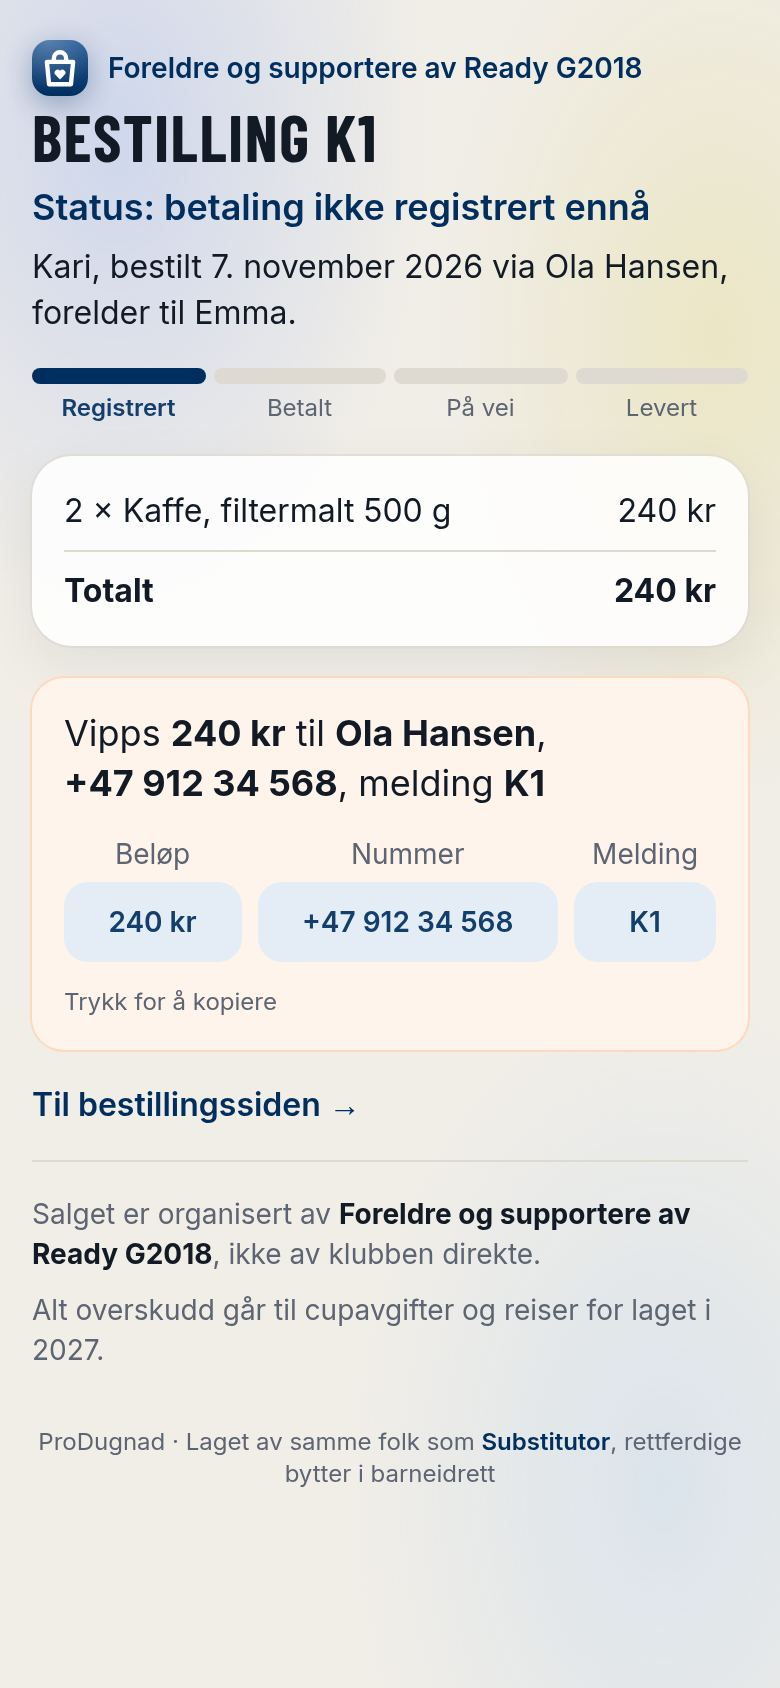
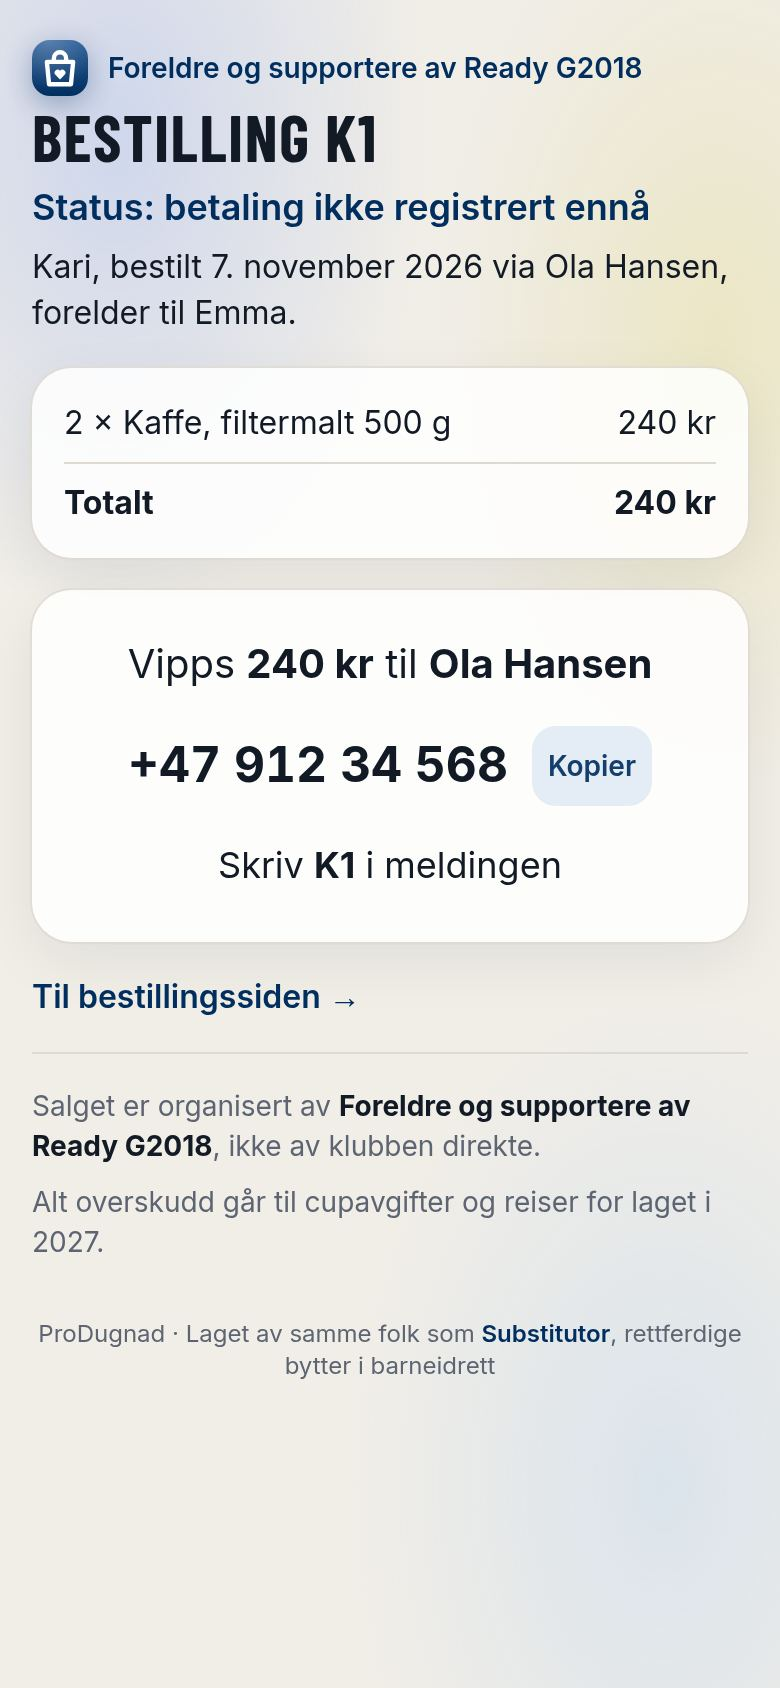
Status page: just the current status, and the same simple Vipps block as after ordering

diff --git a/src/pages/OrderStatusPage.tsx b/src/pages/OrderStatusPage.tsx
@@ -3,18 +3,10 @@ import { Link, useParams } from 'react-router'
 import { ProgressBar } from '../components/ProgressBar'
 import { ClosingMessage, Transparency } from '../components/Transparency'
 import { Card, ErrorBox, Loading, Logo, Page } from '../components/ui'
-import { VippsBox } from '../components/VippsBox'
+import { VippsSimple } from '../components/VippsSimple'
 import { kr, longDate } from '../lib/format'
 import { supabase } from '../lib/supabase'
-import { STATUS_LABEL, type FriendStatus, type StatusPage } from '../lib/types'
-
-const STEPS: FriendStatus[] = ['registrert', 'betalt', 'på vei', 'levert']
-const STEP_LABEL: Record<string, string> = {
-  registrert: 'Registrert',
-  betalt: 'Betalt',
-  'på vei': 'På vei',
-  levert: 'Levert',
-}
+import { STATUS_LABEL, type StatusPage } from '../lib/types'
 
 export default function OrderStatusPage() {
   const { token = '' } = useParams()
@@ -37,7 +29,6 @@ export default function OrderStatusPage() {
     )
 
   const { campaign, parent } = order
-  const stepIndex = STEPS.indexOf(order.status)
 
   return (
     <Page>
@@ -56,17 +47,6 @@ export default function OrderStatusPage() {
 
       <ClosingMessage campaign={campaign} />
 
-      {order.status !== 'avbestilt' && (
-        <ol className="grid grid-cols-4 gap-1 text-center text-xs">
-          {STEPS.map((s, i) => (
-            <li key={s} className="space-y-1">
-              <div className={`h-2 rounded-full ${i <= stepIndex ? 'bg-brand' : 'bg-line'}`} />
-              <span className={i <= stepIndex ? 'font-semibold text-brand-dark' : 'text-muted'}>{STEP_LABEL[s]}</span>
-            </li>
-          ))}
-        </ol>
-      )}
-
       <Card className="space-y-2">
         {order.lines.map((l) => (
           <p key={l.name} className="flex justify-between">
@@ -83,7 +63,9 @@ export default function OrderStatusPage() {
       </Card>
 
       {order.status === 'registrert' && (
-        <VippsBox amount={order.amount} name={parent.name} phoneNumber={parent.phone} code={order.code} />
+        <Card className="py-6">
+          <VippsSimple amount={order.amount} name={parent.name} phoneNumber={parent.phone} code={order.code} />
+        </Card>
       )}
 
       {campaign.raised !== null && <ProgressBar raised={campaign.raised} target={campaign.target_amount ?? 0} />}

diff --git a/src/pages/FriendOrderPage.tsx b/src/pages/FriendOrderPage.tsx
@@ -1,12 +1,12 @@
 import { useEffect, useMemo, useState } from 'react'
 import { Link, useParams } from 'react-router'
-import { CopyButton } from '../components/CopyButton'
+import { VippsSimple } from '../components/VippsSimple'
 import { ProgressBar } from '../components/ProgressBar'
 import { ProductPicker, quantitiesToLines, quantitiesTotal, type Quantities } from '../components/ProductPicker'
 import { ClosingMessage, Transparency } from '../components/Transparency'
 import { Button, Card, ErrorBox, Field, Input, Loading, Logo, Notice, Page, Title } from '../components/ui'
 import { errorText } from '../lib/errors'
-import { kr, longDate, phone, phoneDigits } from '../lib/format'
+import { kr, longDate } from '../lib/format'
 import { newId } from '../lib/id'
 import { ordersForLink, rememberOrder, type LocalOrder } from '../lib/localOrders'
 import { supabase } from '../lib/supabase'
@@ -119,16 +119,7 @@ export default function FriendOrderPage() {
       {placed ? (
         <Card className="space-y-5 py-6 text-center">
           <h2 className="font-display text-[34px] leading-none uppercase tracking-wide">Takk for støtten, {firstName.trim()}!</h2>
-          <p className="text-xl leading-snug">
-            Vipps <strong>{kr(placed.amount)}</strong> til <strong>{placed.parent.name}</strong>
-          </p>
-          <div className="flex items-center justify-center gap-3">
-            <span className="text-2xl font-bold whitespace-nowrap tabular-nums">{phone(placed.parent.phone)}</span>
-            <CopyButton value={phoneDigits(placed.parent.phone)} label="Kopier" />
-          </div>
-          <p className="text-lg">
-            Skriv <strong>{placed.code}</strong> i meldingen
-          </p>
+          <VippsSimple amount={placed.amount} name={placed.parent.name} phoneNumber={placed.parent.phone} code={placed.code} />
           <div className="flex justify-center gap-6 pt-1 text-sm">
             <Link to={`/status/${placed.status_token}`} className="font-semibold text-brand">
               Se bestillingen

diff --git a/src/components/VippsSimple.tsx b/src/components/VippsSimple.tsx
@@ -1,0 +1,20 @@
+import { kr, phone, phoneDigits } from '../lib/format'
+import { CopyButton } from './CopyButton'
+
+/** "Vipps 240 kr til Ola Hansen", the number with one copy button, and the message code. */
+export function VippsSimple({ amount, name, phoneNumber, code }: { amount: number; name: string; phoneNumber: string; code: string }) {
+  return (
+    <div className="space-y-4 text-center">
+      <p className="text-xl leading-snug">
+        Vipps <strong>{kr(amount)}</strong> til <strong>{name}</strong>
+      </p>
+      <div className="flex items-center justify-center gap-3">
+        <span className="text-2xl font-bold whitespace-nowrap tabular-nums">{phone(phoneNumber)}</span>
+        <CopyButton value={phoneDigits(phoneNumber)} label="Kopier" />
+      </div>
+      <p className="text-lg">
+        Skriv <strong>{code}</strong> i meldingen
+      </p>
+    </div>
+  )
+}

diff --git a/docs/tekster.md b/docs/tekster.md
@@ -54,8 +54,8 @@ Every text in the app, the emails and the link previews, as of 7 November 2026, 
 |---|---|---|
 | C1 | Title + status line | Bestilling K7 · Status: betaling ikke registrert ennå / betalt / på vei / levert / avbestilt |
 | C2 | Under the title | Kari, bestilt 7. november 2026 via Ola Hansen, forelder til Emma. |
-| C3 | Progress steps | Registrert · Betalt · På vei · Levert |
 | C4 | List | 2 × *Kaffe, filtermalt 500 g* · Totalt |
+| C8 | Payment (only while unpaid), same as B | Vipps **240 kr** til **Ola Hansen** · **+47 912 34 568** · Kopier · Skriv **K7** i meldingen |
 | C5 | Link | Til bestillingssiden → |
 | C7 | Progress bar | Not shown to friends (only parents and admins: **18 400 kr** til laget av 30 000 kr) |
 | C6 | Wrong link | Fant ikke bestillingen. Sjekk at du har hele lenken. |
